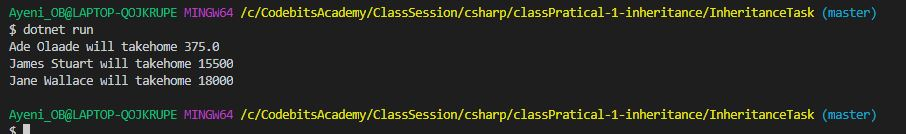
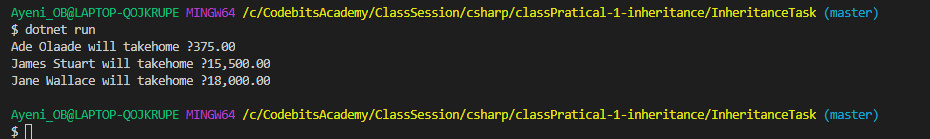
Formated output to currency

diff --git a/Program.cs b/Program.cs
@@ -11,7 +11,7 @@ namespace InheritanceTask
 
             foreach (Employee employee in allEmployees)
             {
-                Console.WriteLine($"{employee.Name} will takehome {employee.GetSalary()}");
+                Console.WriteLine($"{employee.Name} will takehome {employee.GetSalary():C}");
             }
         }
     }
